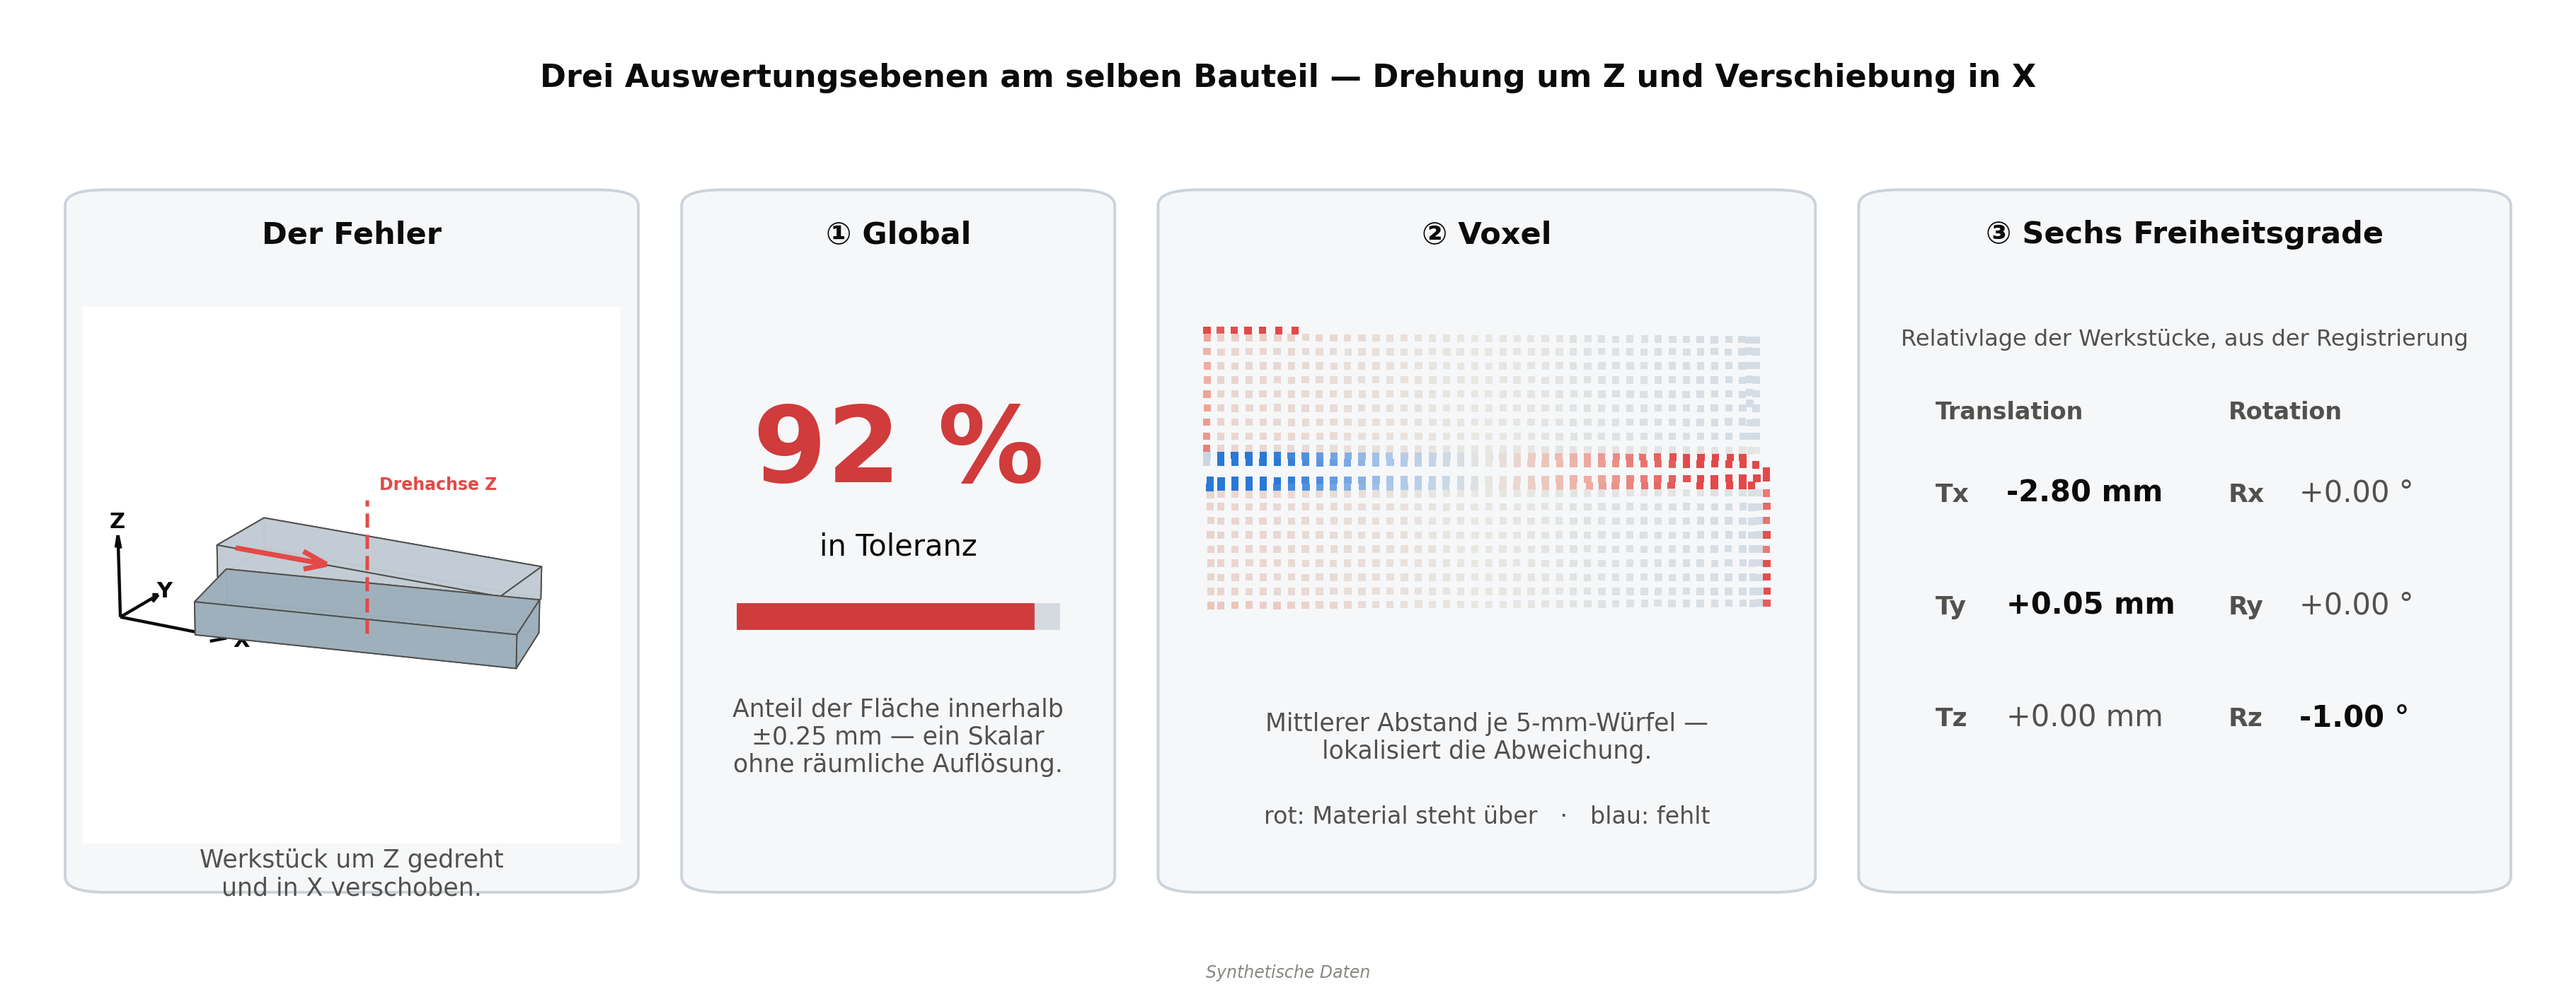
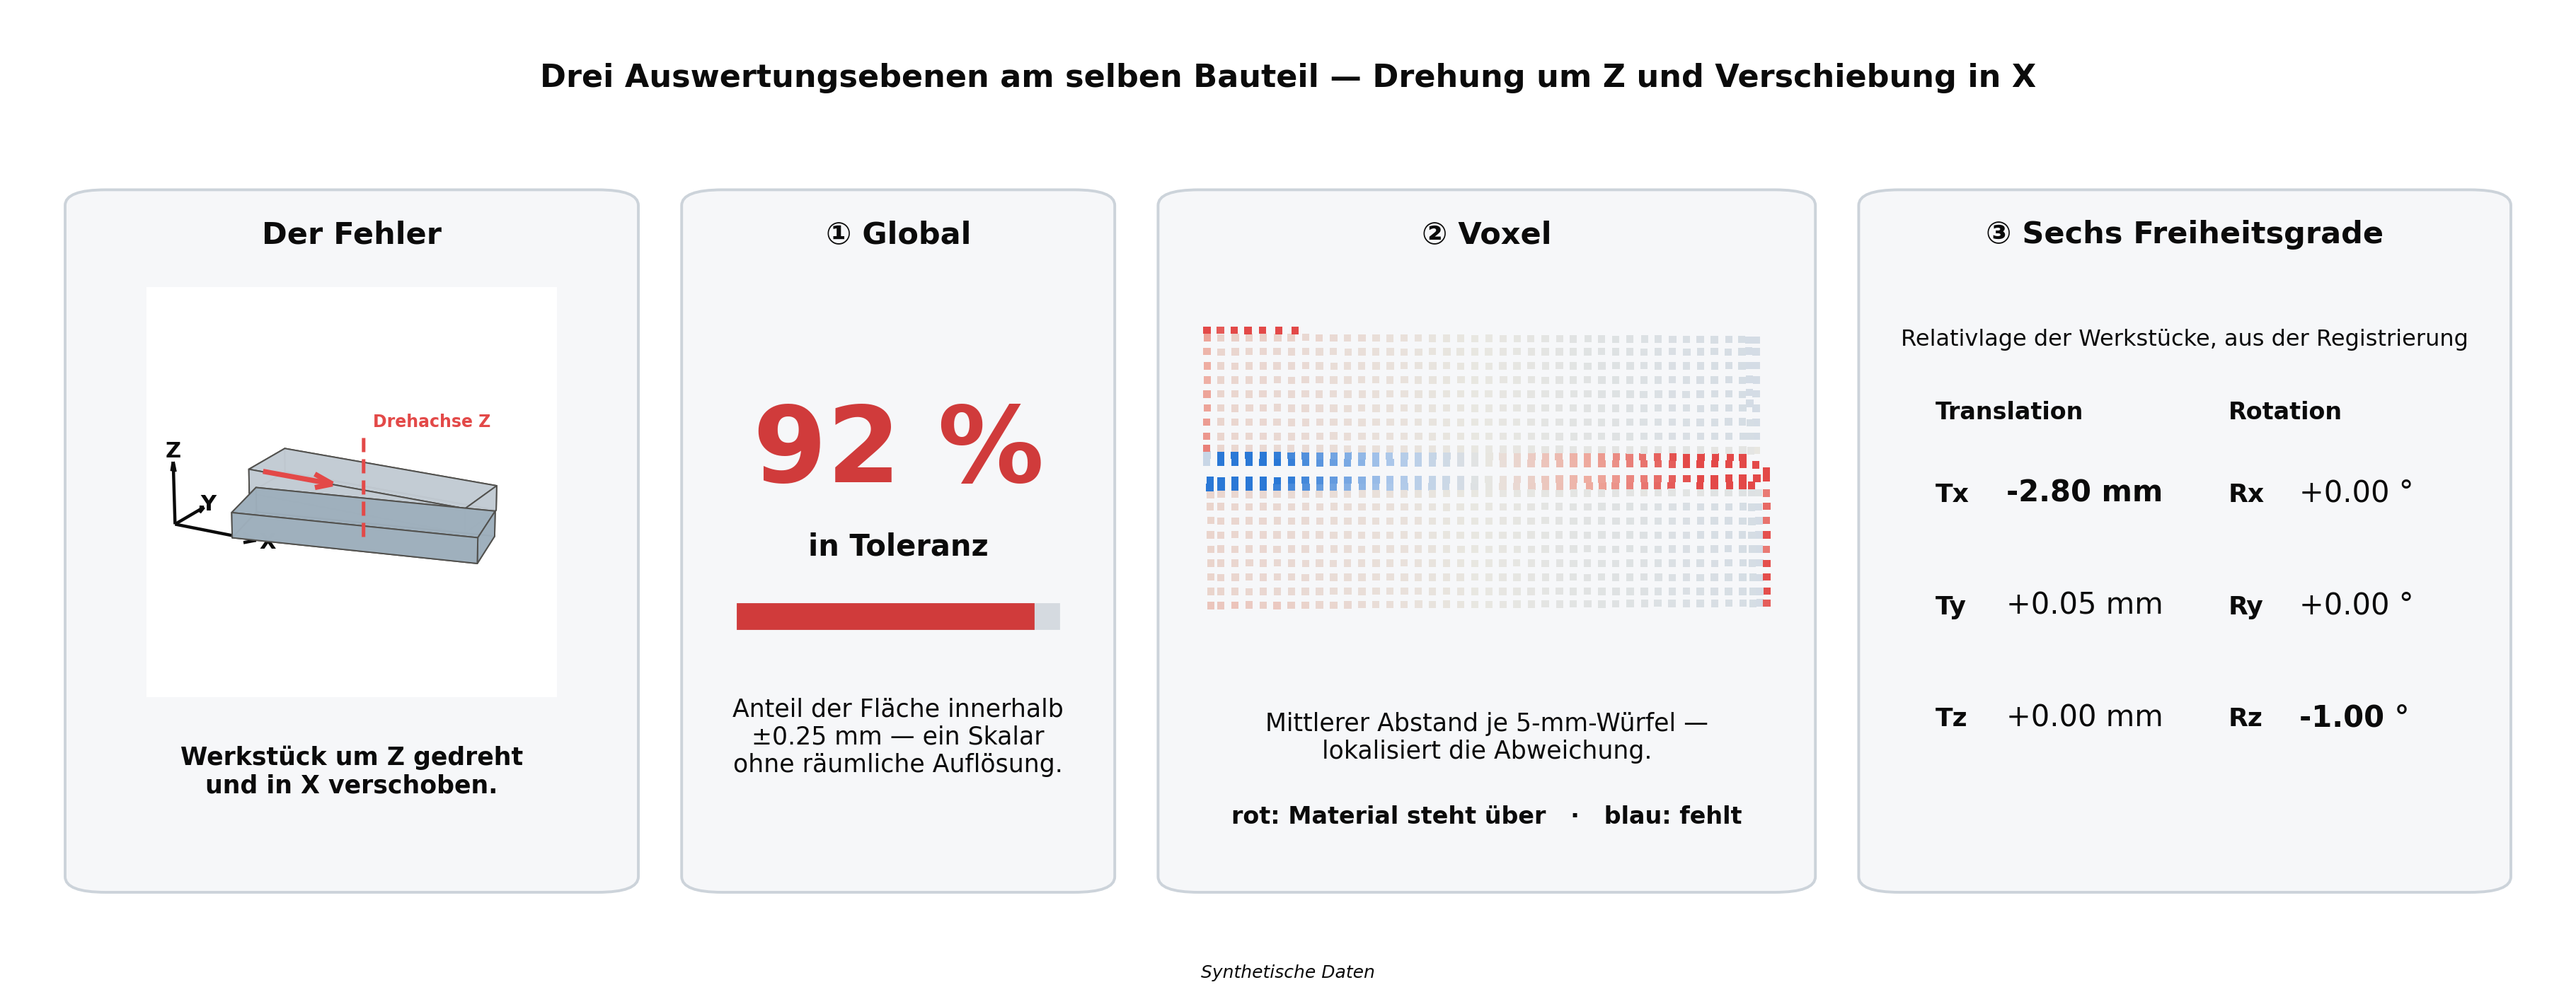
fix(figures): Bild 2 komplett schwarze Schrift, Schema-Kasten randfrei
Schrift durchgehend schwarz statt grau (Captions, Spaltenkoepfe, Freiheitsgrade,
Legende, Fussnote). Hierarchie nur ueber Groesse und Fettung: die echten Fehler
Tx und Rz fett, die Null-/Restwerte normal, aber alle schwarz und lesbar.

Ty behaelt seinen echten Messwert (+0.05), steht aber normal statt fett -- es
ist kein aufgepraegter Fehler, sondern der In-Ebenen-Rest der Z-Drehung.

Die Schemaskizze lag ueber den Kastenrand hinaus, wodurch die Unterschrift den
Kasten schnitt. Jetzt sitzt sie innerhalb der Kastengrenzen, die Unterschrift
darueber.

diff --git a/scripts/presentation_figures.py b/scripts/presentation_figures.py
@@ -234,7 +234,7 @@ def draw_fault_schematic(ax, kind: str):
 
 
 def _footer(fig):
-    fig.text(0.5, 0.012, FOOTER, ha="center", fontsize=8.5, color=MUTED,
+    fig.text(0.5, 0.012, FOOTER, ha="center", fontsize=9, color=INK,
              style="italic")
 
 
@@ -340,24 +340,25 @@ def figure_three_levels(cad, path: Path):
         bg.text(cx(i), header_y, htext, ha="center", fontsize=15.5,
                 weight="bold", color=INK)
 
-    # ── Kasten 0: Schemaskizze ───────────────────────────────────────
+    # ── Kasten 0: Schemaskizze (innerhalb der Kastengrenzen) ─────────
     x, y, w, h = cards[0]
-    ax3 = fig.add_axes([x - 0.01, 0.15, w + 0.02, 0.55], projection="3d")
+    ax3 = fig.add_axes([x + 0.004, 0.30, w - 0.008, 0.42], projection="3d")
     draw_fault_schematic(ax3, "yaw_z_shift_x")
-    bg.text(cx(0), 0.145, "Werkstück um Z gedreht\nund in X verschoben.",
-            ha="center", va="top", fontsize=12.5, color=INK2)
+    bg.text(cx(0), 0.25, "Werkstück um Z gedreht\nund in X verschoben.",
+            ha="center", va="top", fontsize=12.5, weight="bold", color=INK)
 
     # ── Kasten 1: globaler Kennwert ──────────────────────────────────
     bg.text(cx(1), 0.55, f"{rate:.0f} %", ha="center", va="center",
             fontsize=54, weight="bold", color=C_BAD)
-    bg.text(cx(1), 0.445, "in Toleranz", ha="center", fontsize=15, color=INK)
+    bg.text(cx(1), 0.445, "in Toleranz", ha="center", fontsize=15,
+            weight="bold", color=INK)
     x, y, w, h = cards[1]
     bx, bw, by = x + 0.022, w - 0.044, 0.37
     bg.add_patch(plt.Rectangle((bx, by), bw, 0.026, color="#d5dae0"))
     bg.add_patch(plt.Rectangle((bx, by), bw * rate / 100, 0.026, color=C_BAD))
     bg.text(cx(1), 0.30, "Anteil der Fläche innerhalb\n±0.25 mm — ein Skalar\n"
             "ohne räumliche Auflösung.", ha="center", va="top", fontsize=12.5,
-            color=INK2)
+            color=INK)
 
     # ── Kasten 2: Voxelkarte ─────────────────────────────────────────
     x, y, w, h = cards[2]
@@ -374,30 +375,28 @@ def figure_three_levels(cad, path: Path):
     axv.set_aspect("equal"); axv.set_axis_off()
     bg.text(cx(2), 0.285, "Mittlerer Abstand je 5-mm-Würfel —\n"
             "lokalisiert die Abweichung.", ha="center", va="top",
-            fontsize=12.5, color=INK2)
+            fontsize=12.5, color=INK)
     bg.text(cx(2), 0.17, "rot: Material steht über   ·   blau: fehlt",
-            ha="center", fontsize=12, color=INK2)
+            ha="center", fontsize=12, weight="bold", color=INK)
 
     # ── Kasten 3: sechs Freiheitsgrade ───────────────────────────────
     x, y, w, h = cards[3]
     bg.text(cx(3), 0.66, "Relativlage der Werkstücke, aus der Registrierung",
-            ha="center", fontsize=11.5, color=INK2)
+            ha="center", fontsize=11.5, color=INK)
     col_t, col_r = x + 0.03, x + 0.145
-    bg.text(col_t, 0.585, "Translation", fontsize=12, color=INK2, weight="bold")
-    bg.text(col_r, 0.585, "Rotation", fontsize=12, color=INK2, weight="bold")
+    bg.text(col_t, 0.585, "Translation", fontsize=12, color=INK, weight="bold")
+    bg.text(col_r, 0.585, "Rotation", fontsize=12, color=INK, weight="bold")
     dof = [("Tx", tr["x"], "mm"), ("Ty", tr["y"], "mm"), ("Tz", tr["z"], "mm"),
            ("Rx", rot["x"], "°"), ("Ry", rot["y"], "°"), ("Rz", rot["z"], "°")]
     for k, (name, val, unit) in enumerate(dof):
         col = col_t if k < 3 else col_r
         yy = 0.50 - (k % 3) * 0.115
-        active = abs(val) > 0.05
-        disp = val if active else 0.0        # kein "-0.00"
-        # Nullwerte gedämpft, aber lesbar (dunkles Grau, nicht Hellgrau)
-        c_val = INK if active else INK2
-        wt = "bold" if active else "normal"
-        bg.text(col, yy, name, fontsize=13, color=INK2, weight="bold")
+        disp = 0.0 if abs(val) < 0.005 else val    # kein "-0.00"
+        # alles schwarz; nur die echten Fehler (>0.1) fett, der Rest normal
+        wt = "bold" if abs(val) > 0.1 else "normal"
+        bg.text(col, yy, name, fontsize=13, color=INK, weight="bold")
         bg.text(col + 0.028, yy, f"{disp:+.2f} {unit}", fontsize=15,
-                color=c_val, weight=wt)
+                color=INK, weight=wt)
 
     fig.suptitle("Drei Auswertungsebenen am selben Bauteil — Drehung um Z "
                  "und Verschiebung in X", fontsize=16, weight="bold",
